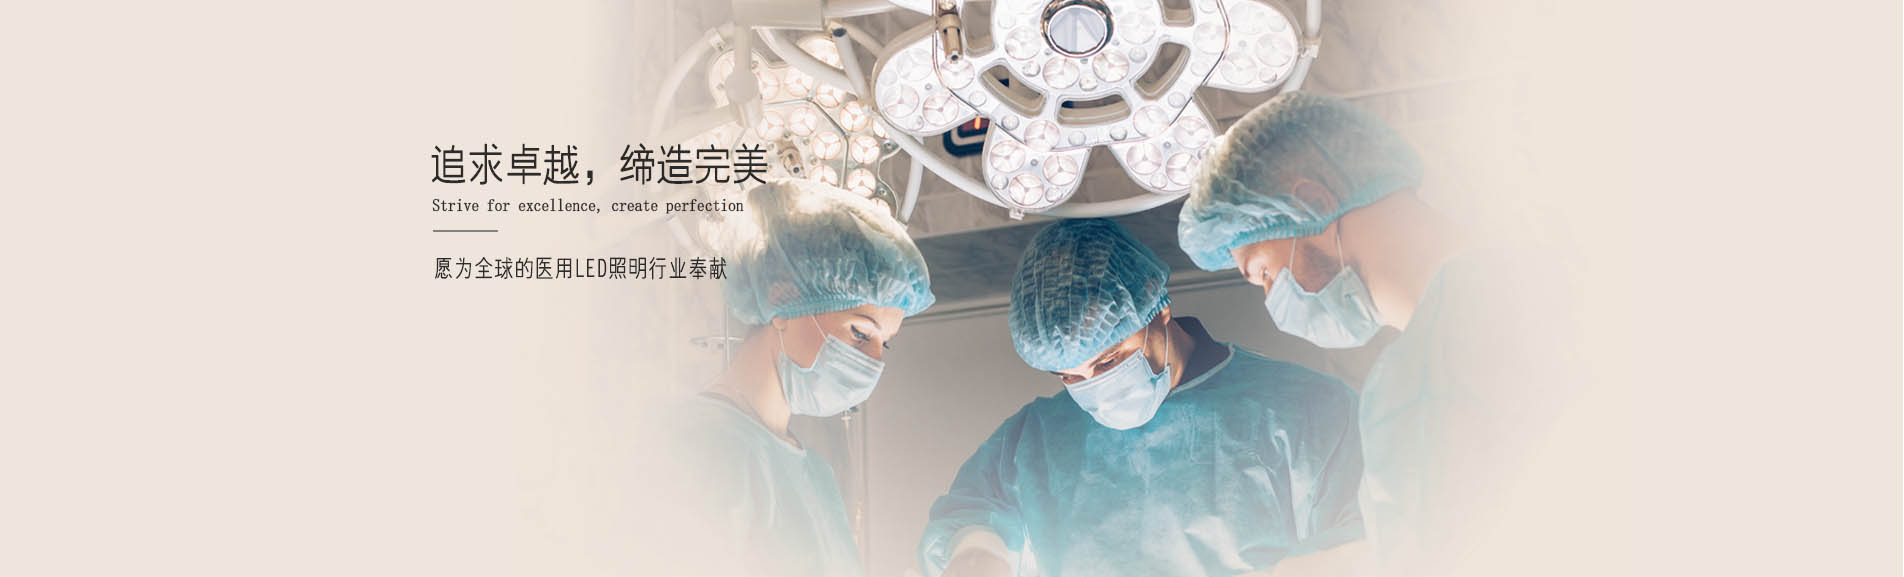
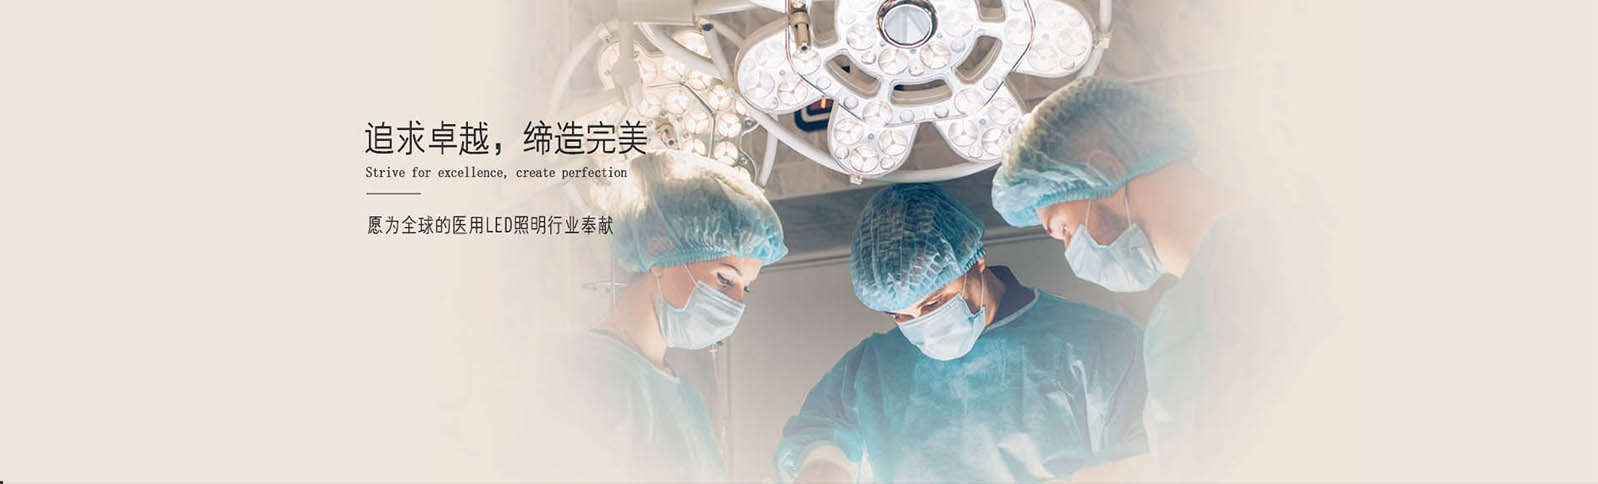
首页banner轮播修改

diff --git a/src/App.vue b/src/App.vue
@@ -2,11 +2,11 @@
   <div id="app">
   	<commonHeader></commonHeader>
 
-    <div class="banner" v-bind:style="bannerStyle">
+    <div class="banner" v-bind:class="'banner-' + num">
     	<div class="banner-center">
     		<ul class="banner-nav">
 	    		<template v-for="(item,index) in banner.list">
-	    			<li class="banner-item" v-bind:class="'item' + index"  @click="bannerChoose(item.style)" >{{index}}</li>
+	    			<li class="banner-item" v-bind:class="'item' + index"  @click="bannerChoose(item.num)" >{{index}}</li>
 
     			</template>
     		</ul>
@@ -55,29 +55,30 @@ export default {
     	activeColor: 'red',
   		fontSize: 30,
 
-    	num:"",
+    	num:1,
       msg: 'Welcome to Your Vue.js App',
       bannerStyle: {
-      	backgroudImage:'url(/src/css/img/banner-bg-1.jpg)'
+      	backgroudImage:'url(css/img/banner-bg-1.jpg)'
       	
       },
       banner:{
+      	num:1,
       	list:[
       		{
       			name:"p1",
-      			style:"url(/src/css/img/banner-bg-1.jpg)"
+      			num:1
       		},{
       			name:"p1",
-      			style:"url(/src/css/img/banner-bg-2.jpg)"
+      			num:2
       		},{
       			name:"p1",
-      			style:"url(/src/css/img/banner-bg-3.jpg)"
+      			num:3
       		},{
       			name:"p1",
-      			style:"url(/src/css/img/banner-bg-4.jpg)"
+      			num:4
       		},{
       			name:"p1",
-      			style:"url(/src/css/img/banner-bg-5.jpg)"
+      			num:5
       		}
       	]
       }
@@ -87,11 +88,12 @@ export default {
   
 	methods:{
 
-		bannerChoose(style){
+		bannerChoose(num){
 			var vm = this;
-vm.activeColor="black";
-			vm.bannerStyle.backgroundImage=style;
-			console.log(vm.bannerStyle.backgroundImage)
+			vm.num=num;
+			console.log(num)
+//			vm.bannerStyle.backgroundImage=style;
+//			console.log(vm.bannerStyle.backgroundImage)
 			
 
 		}
@@ -108,10 +110,23 @@ vm.activeColor="black";
 }
 .banner {
 	width: 100%;
-	height: 577px;
-
-	background:url(css/img/banner-bg-1.jpg)  no-repeat center #eee5dc;
-
+	height: 484px;
+	background:url(/src/css/img/banner-bg-1.jpg)  no-repeat center #eee5dc;
+}
+.banner-1 {
+	background:url(/src/css/img/banner-bg-1.jpg)  no-repeat center #eee5dc;
+}
+.banner-2 {
+	background:url(/src/css/img/banner-bg-2.jpg)  no-repeat center #eee5dc;
+}
+.banner-3 {
+	background:url(/src/css/img/banner-bg-3.jpg)  no-repeat center #eee5dc;
+}
+.banner-4 {
+	background:url(/src/css/img/banner-bg-4.jpg)  no-repeat center #eee5dc;
+}
+.banner-5 {
+	background:url(/src/css/img/banner-bg-5.jpg)  no-repeat center #eee5dc;
 }
 .banner-center {
 	position: relative;
@@ -180,7 +195,7 @@ vm.activeColor="black";
 	margin-top: 40px;
 	width: 100%;
 	height: 146px;
-	background: url(css/img/product-bg-01.jpg)  no-repeat 170px 0;
+	background: url(/src/css/img/product-bg-01.jpg)  no-repeat 170px 0;
 }
 .product-title,.product-sub-title {
 	width: 170px;

diff --git a/webpack.config.js b/webpack.config.js
@@ -42,7 +42,7 @@ module.exports = {
     historyApiFallback: true,
     noInfo: true,
 
-    port:8093
+    port:8090
 
   },
   performance: {
